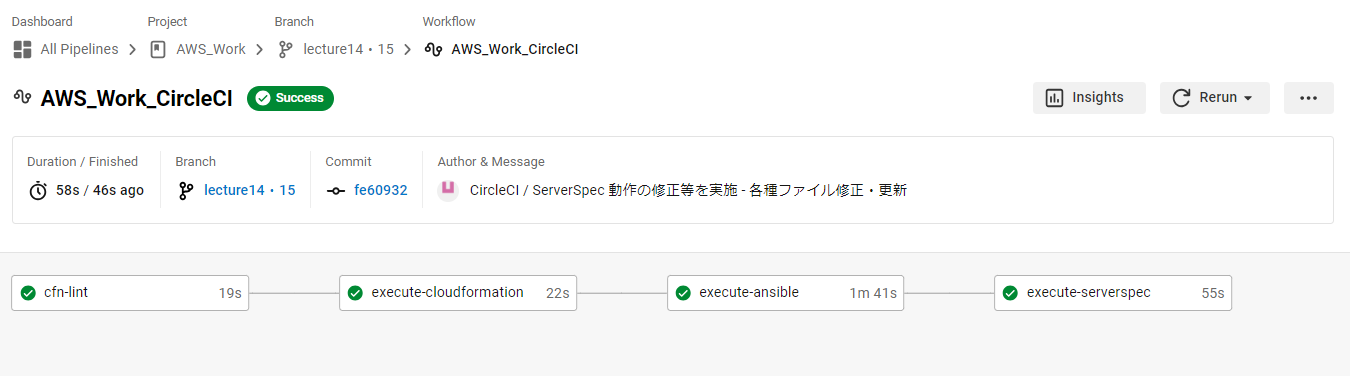
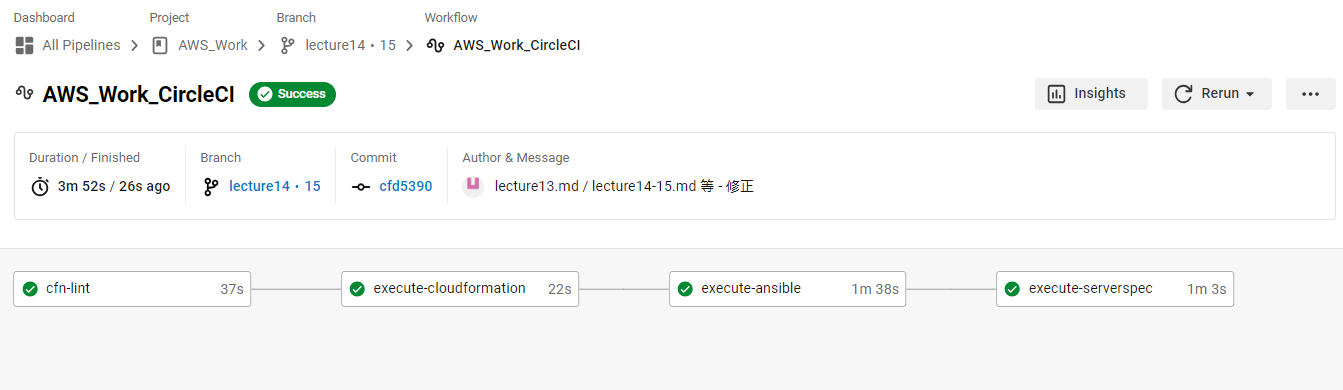
lecture13.md - リンク(目次)追記 等

diff --git a/Tasks/lecture13/lecture13.md b/Tasks/lecture13/lecture13.md
@@ -1,6 +1,16 @@
 # 【 lecture13：構成管理(プロビジョニング)ツール ( Ansible ) / CircleCIへの組込 】
 
-
+- [Ansible の環境構築・設定・処理実行](#-ansible-の環境構築設定処理実行)
+- [CircleCI への組込　( CloudFormation / Ansible / ServerSpec )](#-circleci-への組込-cloudformation--ansible--serverspec-)
+  - [CloudFormation によるインフラリソース構築](#-cloudformation-によるインフラリソース構築)
+  - [Ansible による構成管理(プロビジョニング)の実行](#-ansible-による構成管理プロビジョニングの実行)
+  - [ServerSpec によるテスト実行](#-serverspec-によるテスト実行)
+    - [【 ① ServerSpec によるテストを Local環境/実行ホスト でのみ行う際の環境構築 】](#--serverspec-によるテストを-local環境実行ホスト-でのみ行う際の環境構築-)
+    - [【 ② ServerSpec によるテストを 実行ホストからターゲットノード(ホスト)へ行う際の環境構築 】](#--serverspec-によるテストを-実行ホストからターゲットノードホストへ行う際の環境構築-)
+    - [【 上記②を踏まえて CircleCI での自動テストの構築を実施 】](#-上記を踏まえて-circleci-での自動テストの構築を実施-)
+- [CircleCI - 実行結果/動作確認](#-circleci---実行結果動作確認)
+- [CircleCI - .circleci/config.yml の関連ファイル構成](#-circleci---circleciconfigyml-の関連ファイル構成)
+- [感想](#-感想)
 ## ■ Ansible の環境構築・設定・処理実行
 - コントロールノード用のEC2を起動　( AMI：Amazon Linux 2 )
 - SessionManager を使用してログイン、Ansibleインストールのため下記を実行
@@ -90,7 +100,7 @@
   ```
   $ git --version
   ```
-## ■ CircleCIへの組込　( CloudFormation / Ansible / ServerSpec )
+## ■ CircleCI への組込　( CloudFormation / Ansible / ServerSpec )
 ### ■ CloudFormation によるインフラリソース構築
 - AnsibleでのSSH接続対応のため、 [lecture10](../../Tasks/lecture10/lecture10.md) の [CloudFormation_templates - 04_cfn-ec2.yml](../../Tasks/lecture10/CloudFormation_templates/04_cfn-ec2.yml) に下記を追記<br>
 ( ※併せて [02_cfn-securitygroup.yml](../../Tasks/lecture10/CloudFormation_templates/02_cfn-securitygroup.yml) のSSH接続設定も変更 )
@@ -338,7 +348,7 @@
           - execute-serverspec
     ```
 - CircleCI上で、ServerSpecの実行結果を確認
-## ■ 実行結果/動作確認
+## ■ CircleCI - 実行結果/動作確認
 - CircleCI 一連の実行 ( パイプライン ) 結果
 ![CircleCI_00_Pipeline](./images/CircleCI_00_Pipeline.png)
 - cfn-lint の実行結果

diff --git a/Tasks/lecture14-15/lecture14-15.md b/Tasks/lecture14-15/lecture14-15.md
@@ -1,7 +1,7 @@
 # 【 lecture14・15： 自動化処理フロー・AWS構成図 の作成など 】
 
 ## ■ 自動化処理フロー・AWS構成図 の作成
-![diagram](diagram.png)
+![diagram](./images/diagram.png)
 
 ## ■ 前回分の修正 - ServerSpec・`.circleci/config.yml` ( 環境変数の参照 追記 ) など
 - 構成図を書き起こすためフローを見返した際、テスト実行時に違和感があり SeverSpec の動作確認を実施。
